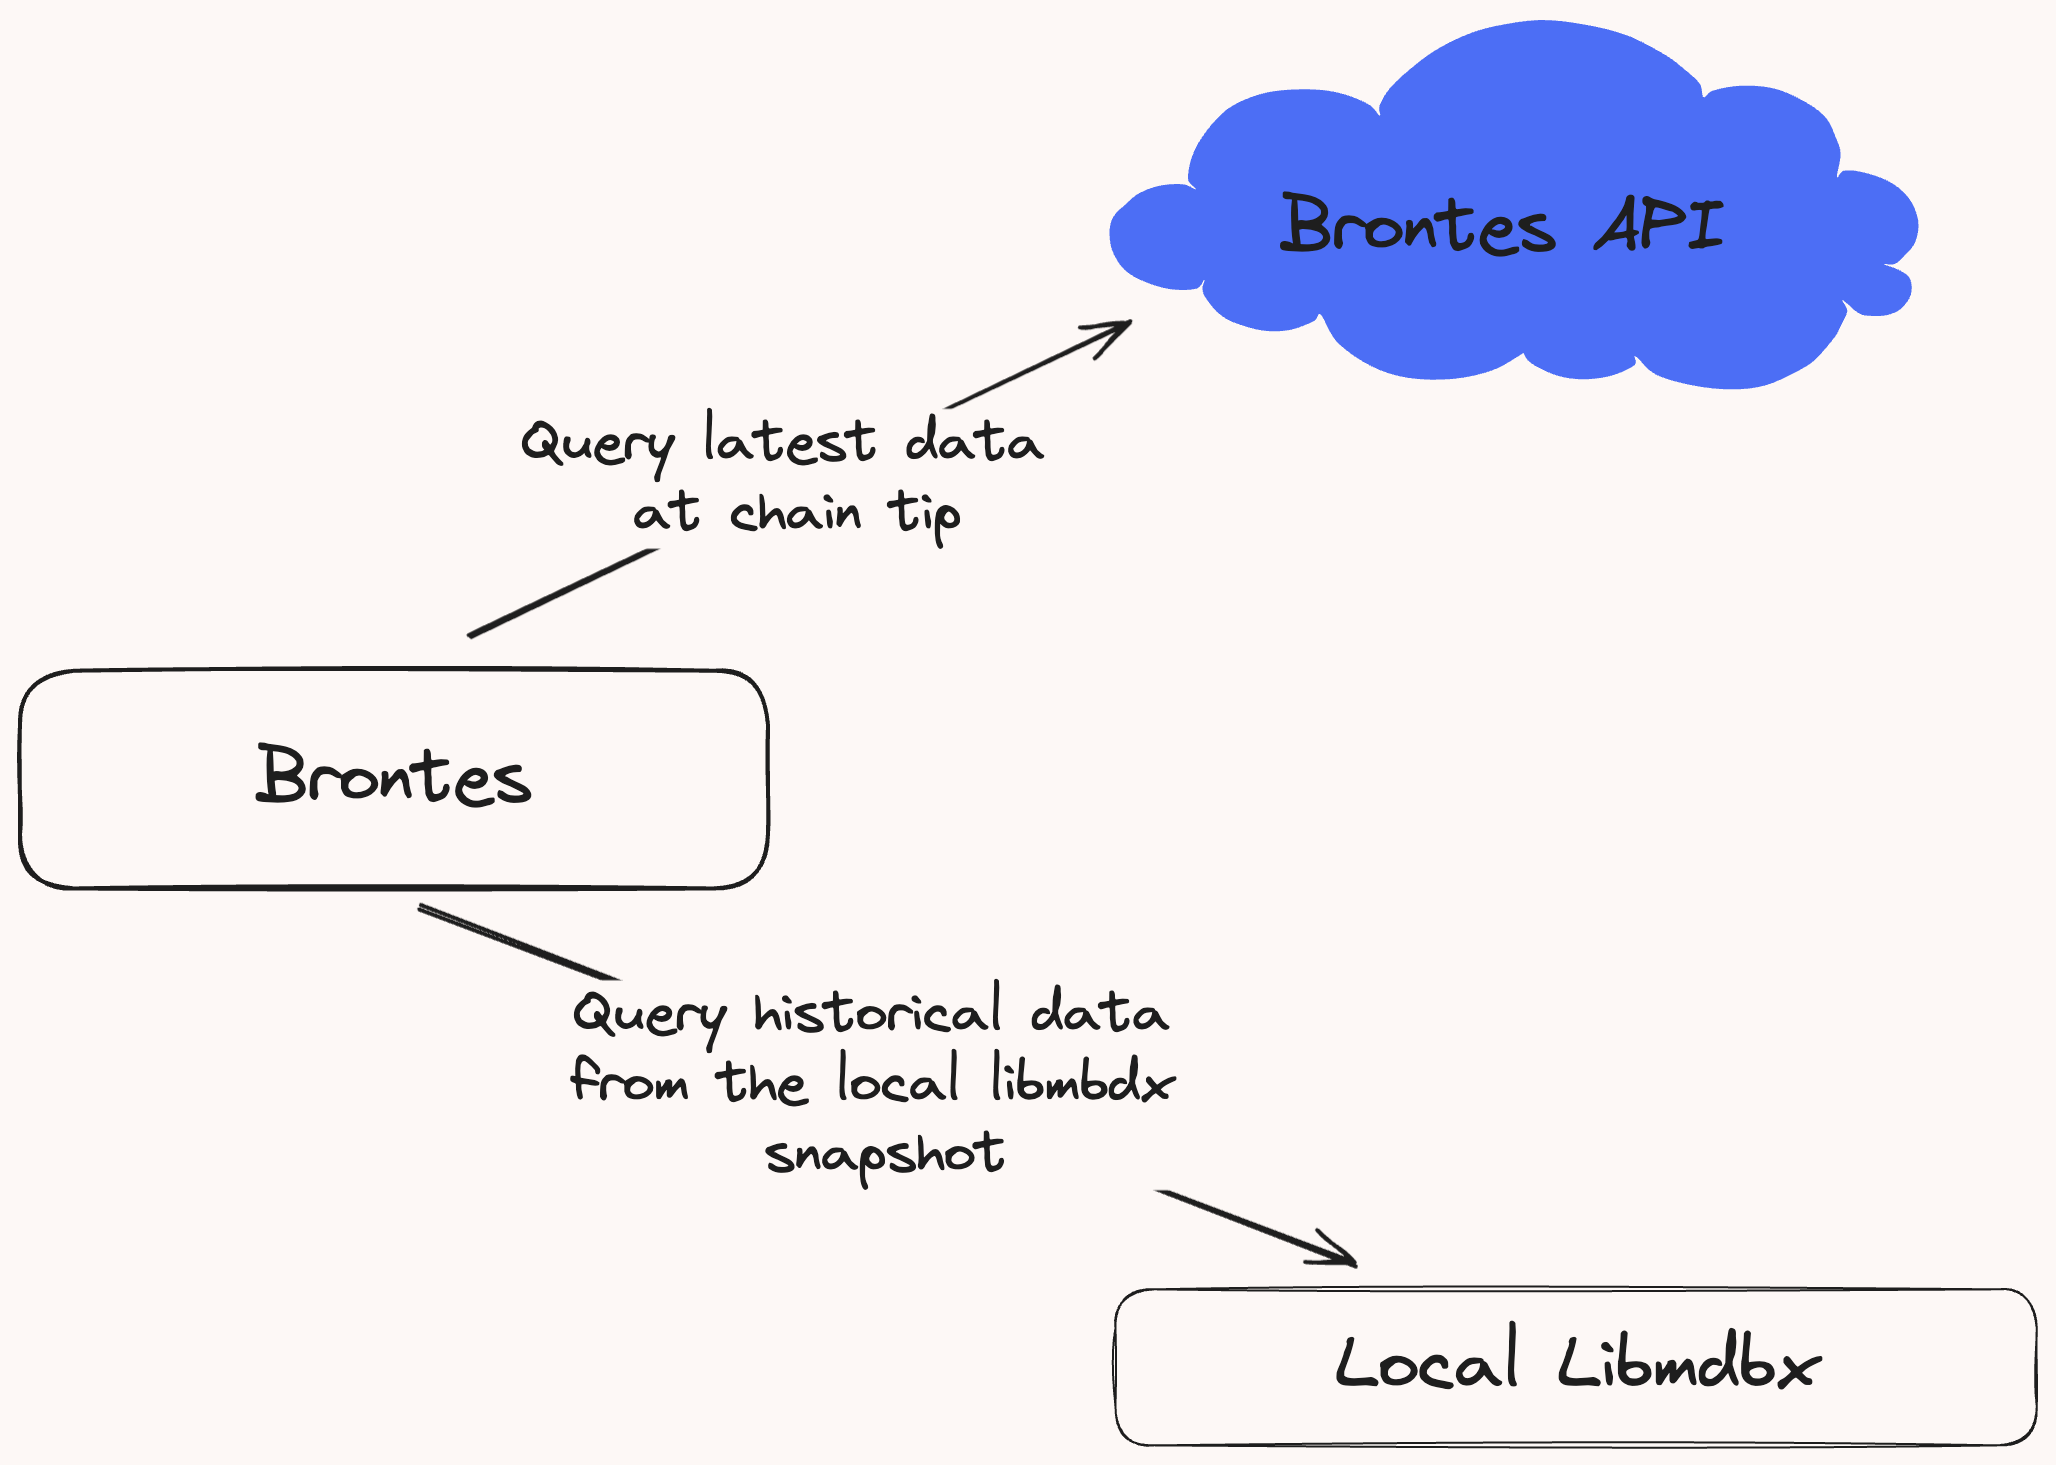
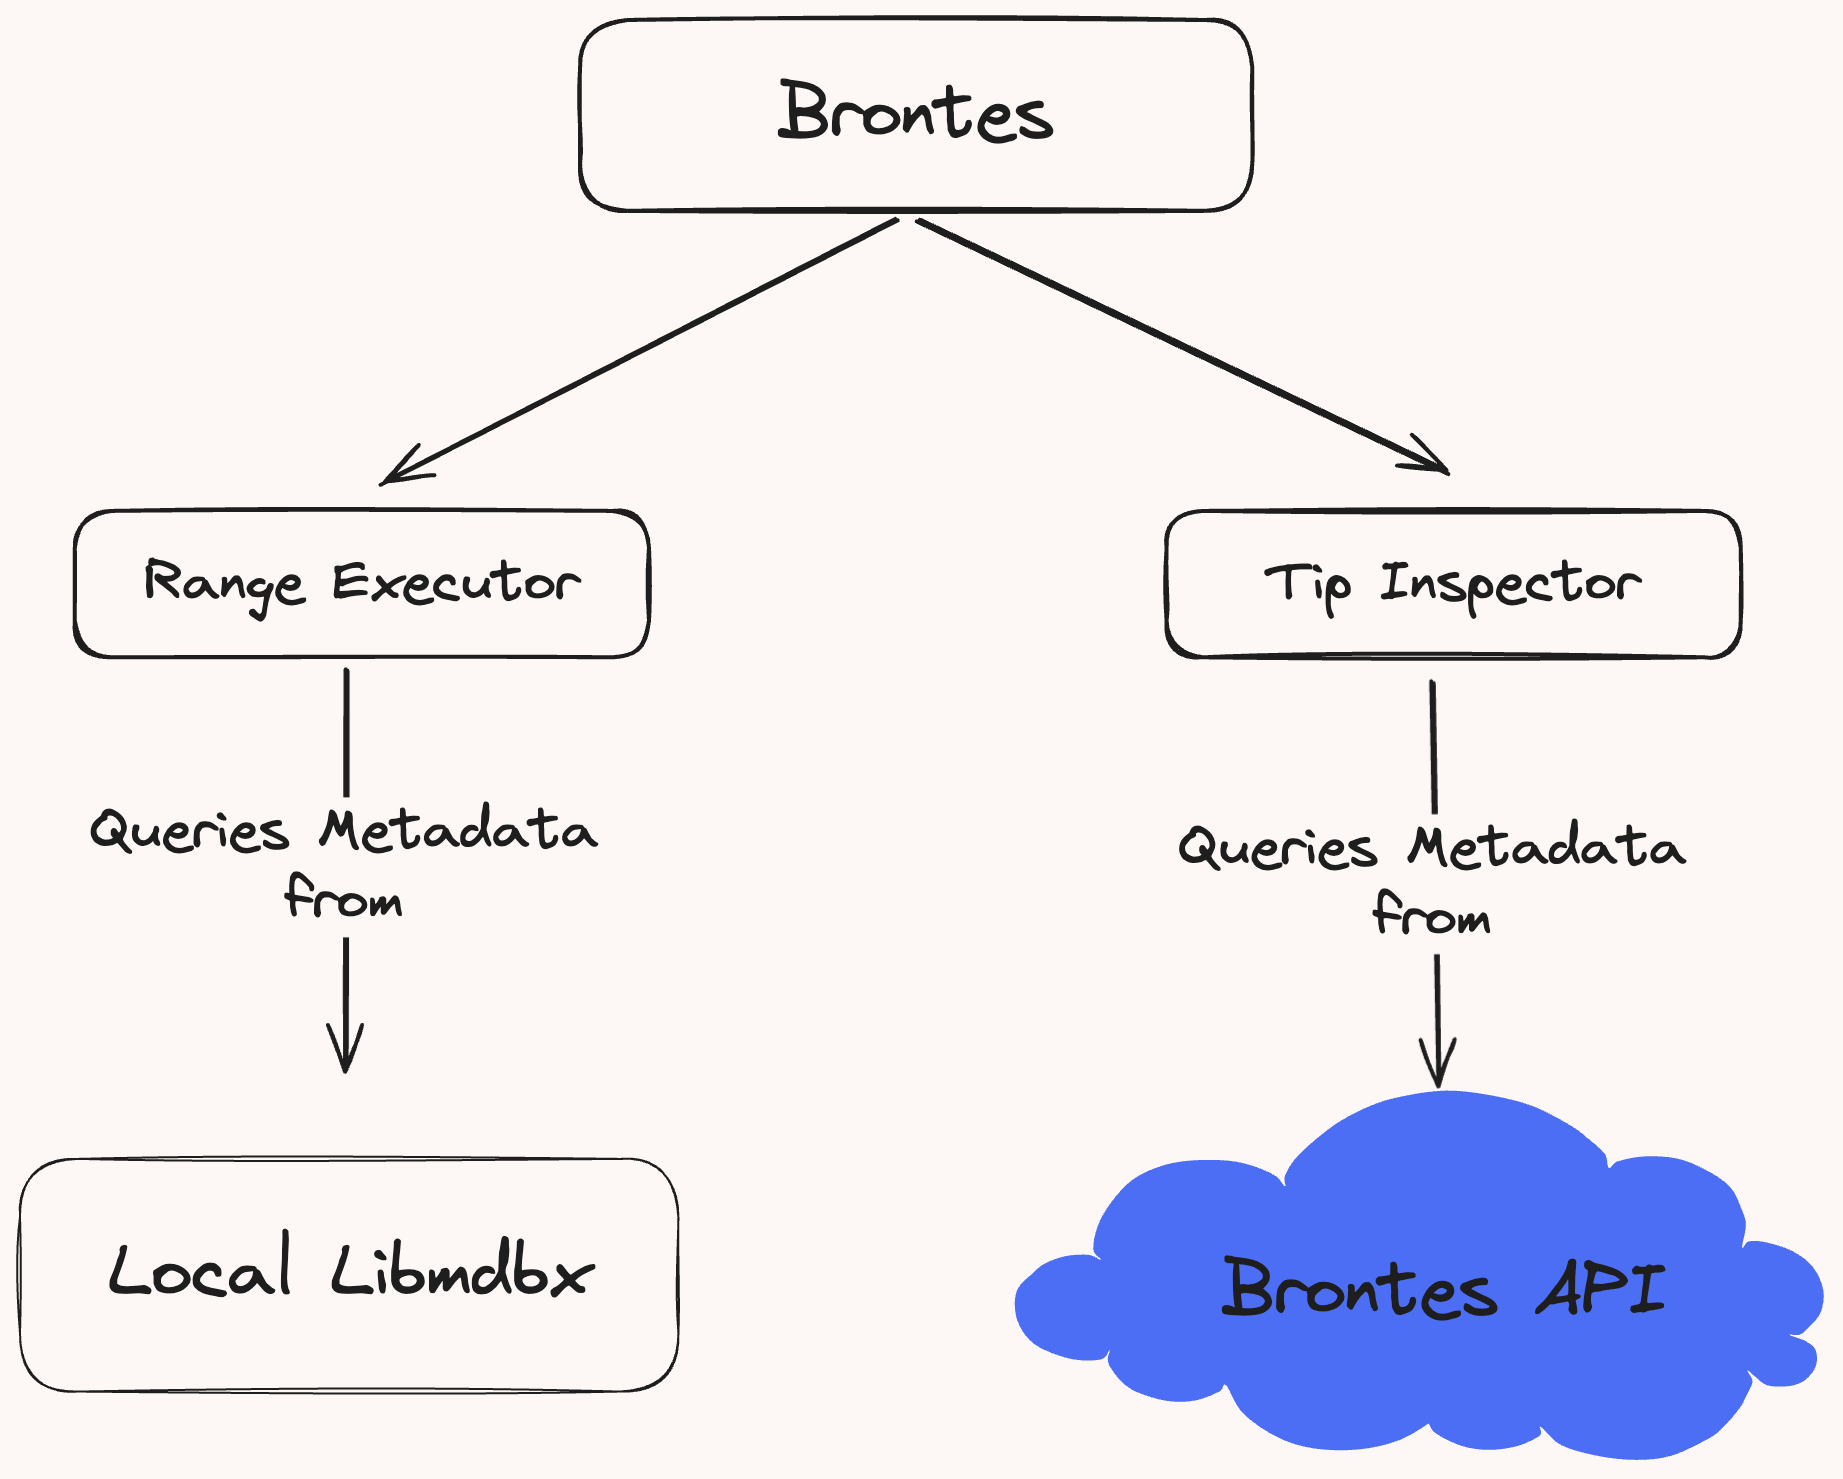
wip

diff --git a/book/architecture/database/database.md b/book/architecture/database/database.md
@@ -1,78 +1,57 @@
 # Brontes Database
 
-The Brontes database stores essential off-chain data and on-chain metadata in a local libmdbx db. This data is collected and stored in a Clickhouse database, which is managed and hosted by Sorella Labs.
+Brontes uses a local libmdbx database to store off-chain data for its analysis pipeline. The data comes from a Clickhouse database managed by Sorella Labs. It includes exchange pricing, trade data, mempool and relay data, address metadata, and more. For details on the specific tables and their schemas, see the [Tables Schema](./tables_schema.md) page.
 
-## Initializing the Database
+## Database Sync
 
-Upon startup, Brontes will download the data from Clickhouse and store it in its local database.
+On startup, Brontes syncs its local database by downloading the needed data from Clickhouse.
 
 <div style="text-align: center;">
     <img src="./diagrams/db-download.png" alt="brontes-flow" style="border-radius: 20px; width: 600px; height: auto;">
-    <p style="font-style: italic;">Figure 1: Production data flow from Clickhouse to Brontes' local storage</p>
+    <p style="font-style: italic;">Figure 1: Data download from Clickhouse to Brontes local storage</p>
 </div>
 
 ### Snapshot Sync
 
-To manage cloud egress costs, we do not currently provide api access to our clickhouse database for historical sync. Instead, users must download the latest db snapshot made available every Monday and Thursday. See the [Installation Guide](./installation/installation.md) for detailed instructions.
+To manage cloud egress costs, we don't currently provide api access to our clickhouse database for historical sync. Instead, users must download the latest db snapshot made available every Monday and Thursday. See the [Installation Guide](../../installation/installation.md) for detailed instructions.
 
 <div style="text-align: center;">
     <img src="./diagrams/user-download-flow.png" alt="brontes-flow" style="border-radius: 20px; width: 500px; height: auto;">
-    <p style="font-style: italic;">Figure 2: User snapshot download and extraction process.</p>
+    <p style="font-style: italic;">Figure 2: User db snapshot download process.</p>
 </div>
 
 ### Live Sync
 
-Users that want to run brontes at chain tip, must request API access so that they can query the data at chain tip. Configuration details for API access can be found in the [Installation Guide](./installation/installation.md).
+Users that want to run brontes at chain tip, must request API access to query the data at chain tip. Configuration details for API access can be found in the [Installation Guide](../../installation/installation.md).
 
 ## Data Flow
+
+Brontes adapts its data retrieval method based on its operational mode: for historical block analysis, it accesses the pre-stored data locally from its libmdbx database; when operating at chain tip, it retrieves metadata through the Brontes API.
 
 <div style="text-align: center;">
-    <img src="./diagrams/data-query-flow.png" alt="brontes-flow" style="border-radius: 20px; width: 600px; height: auto;">
-    <p style="font-style: italic;">Figure 3: Querying methods for historical and real-time data..</p>
+    <img src="./diagrams/data-query-flow.png" alt="brontes-flow" style="border-radius: 20px; width: 500px; height: auto;">
+    <p style="font-style: italic;">Figure 3: Querying methods for historical blocks and chain tip.</p>
 </div>
 
-- **Historical Data**: Users can query historical data directly from their local libmdbx database, which is regularly updated via snapshots.
-- **Real-Time Data**: For up-to-the-minute data, users must connect to the Brontes API, which accesses the latest data directly from the Clickhouse database.
+The [`Metadata`](https://sorellalabs.github.io/brontes/docs/brontes_types/db/metadata/struct.Metadata.html) struct centralizes the essential information required for analysis, it is used by all [`Inspectors`](https://sorellalabs.github.io/brontes/docs/brontes_inspect/index.html) during their analysis.
 
-## Data Flow
+```rust,ignore
+pub struct Metadata {
+    pub block_metadata: BlockMetadata,
+    pub cex_quotes:     CexPriceMap,
+    pub dex_quotes:     Option<DexQuotes>,
+    pub builder_info:   Option<BuilderInfo>,
+    pub cex_trades:     Option<Arc<Mutex<CexTradeMap>>>,
+}
+```
 
-- metadata query for each block
-- peripheral data queried ad hoc
-
-Data Usage:
-
-- Metadata struct: Data fetched for each block, baseline required data for the inspectors
-- Peripheral data: Additional metadata queried by the inspectors to enrich their analysis and enable complex filtering
-
-**Contextualizing the Chain:**
-
-, featuring:
-
-- **Pricing Data:**
-  - DEX pricing with transaction-level granularity.
-  - CEX trades and quotes for all major crypto exchanges.
-- **Address Metadata:** Address labels for entities, funds, protocols, and extensive contract metadata.
-- **P2P Data:** Timestamped mempool and block propagation data, courtesy of [Chainbound](https://www.chainbound.io/).
-- **Searcher Metadata:**
-  - Associated fund
-  - MEV types engaged in
-  - Vertically integrated builder (if applicable)
-- **Builder Metadata:**
-  - Name
-  - Associated fund (if applicable)
-  - BLS public keys
-  - Vertically integrated searcher EOAs and contracts (if applicable)
-  - Ultrasound relay collateral address (if applicable)
-- **Relay Bid Data:** Block auction bid data from major relays since the Merge.
-
-## Metadata
-
-- Dex Pricing
-- Cex Pricing
-  - CexPriceMap
-  - CexTradeMap
-- Block Metadata
-- Builder Info
+- **DEX Pricing:**: Comprehensive DEX pricing with transaction-level granularity for all active tokens in the block.
+- **CEX Quotes and Trades:** Quotes (or trades data if brontes is built with the `cex-dex-markout` feature flag), from all major cryptocurrency exchanges.
+- **Mev-Boost data:** Fee recipient & mev reward.
+- **P2P Data:**
+  - List of the block's private transactions and the block p2p timestamp, which marks the first time a fiber node received the block, sourced from Chainbound.
+  - Relay submission timestamp.
+- **Builder Info:** The block builder's info, including its name, associated funds, BLS public keys, integrated searcher EOAs and contracts addresses, and its ultrasound relay collateral addresses.
 
 ## Peripheral Data
 
